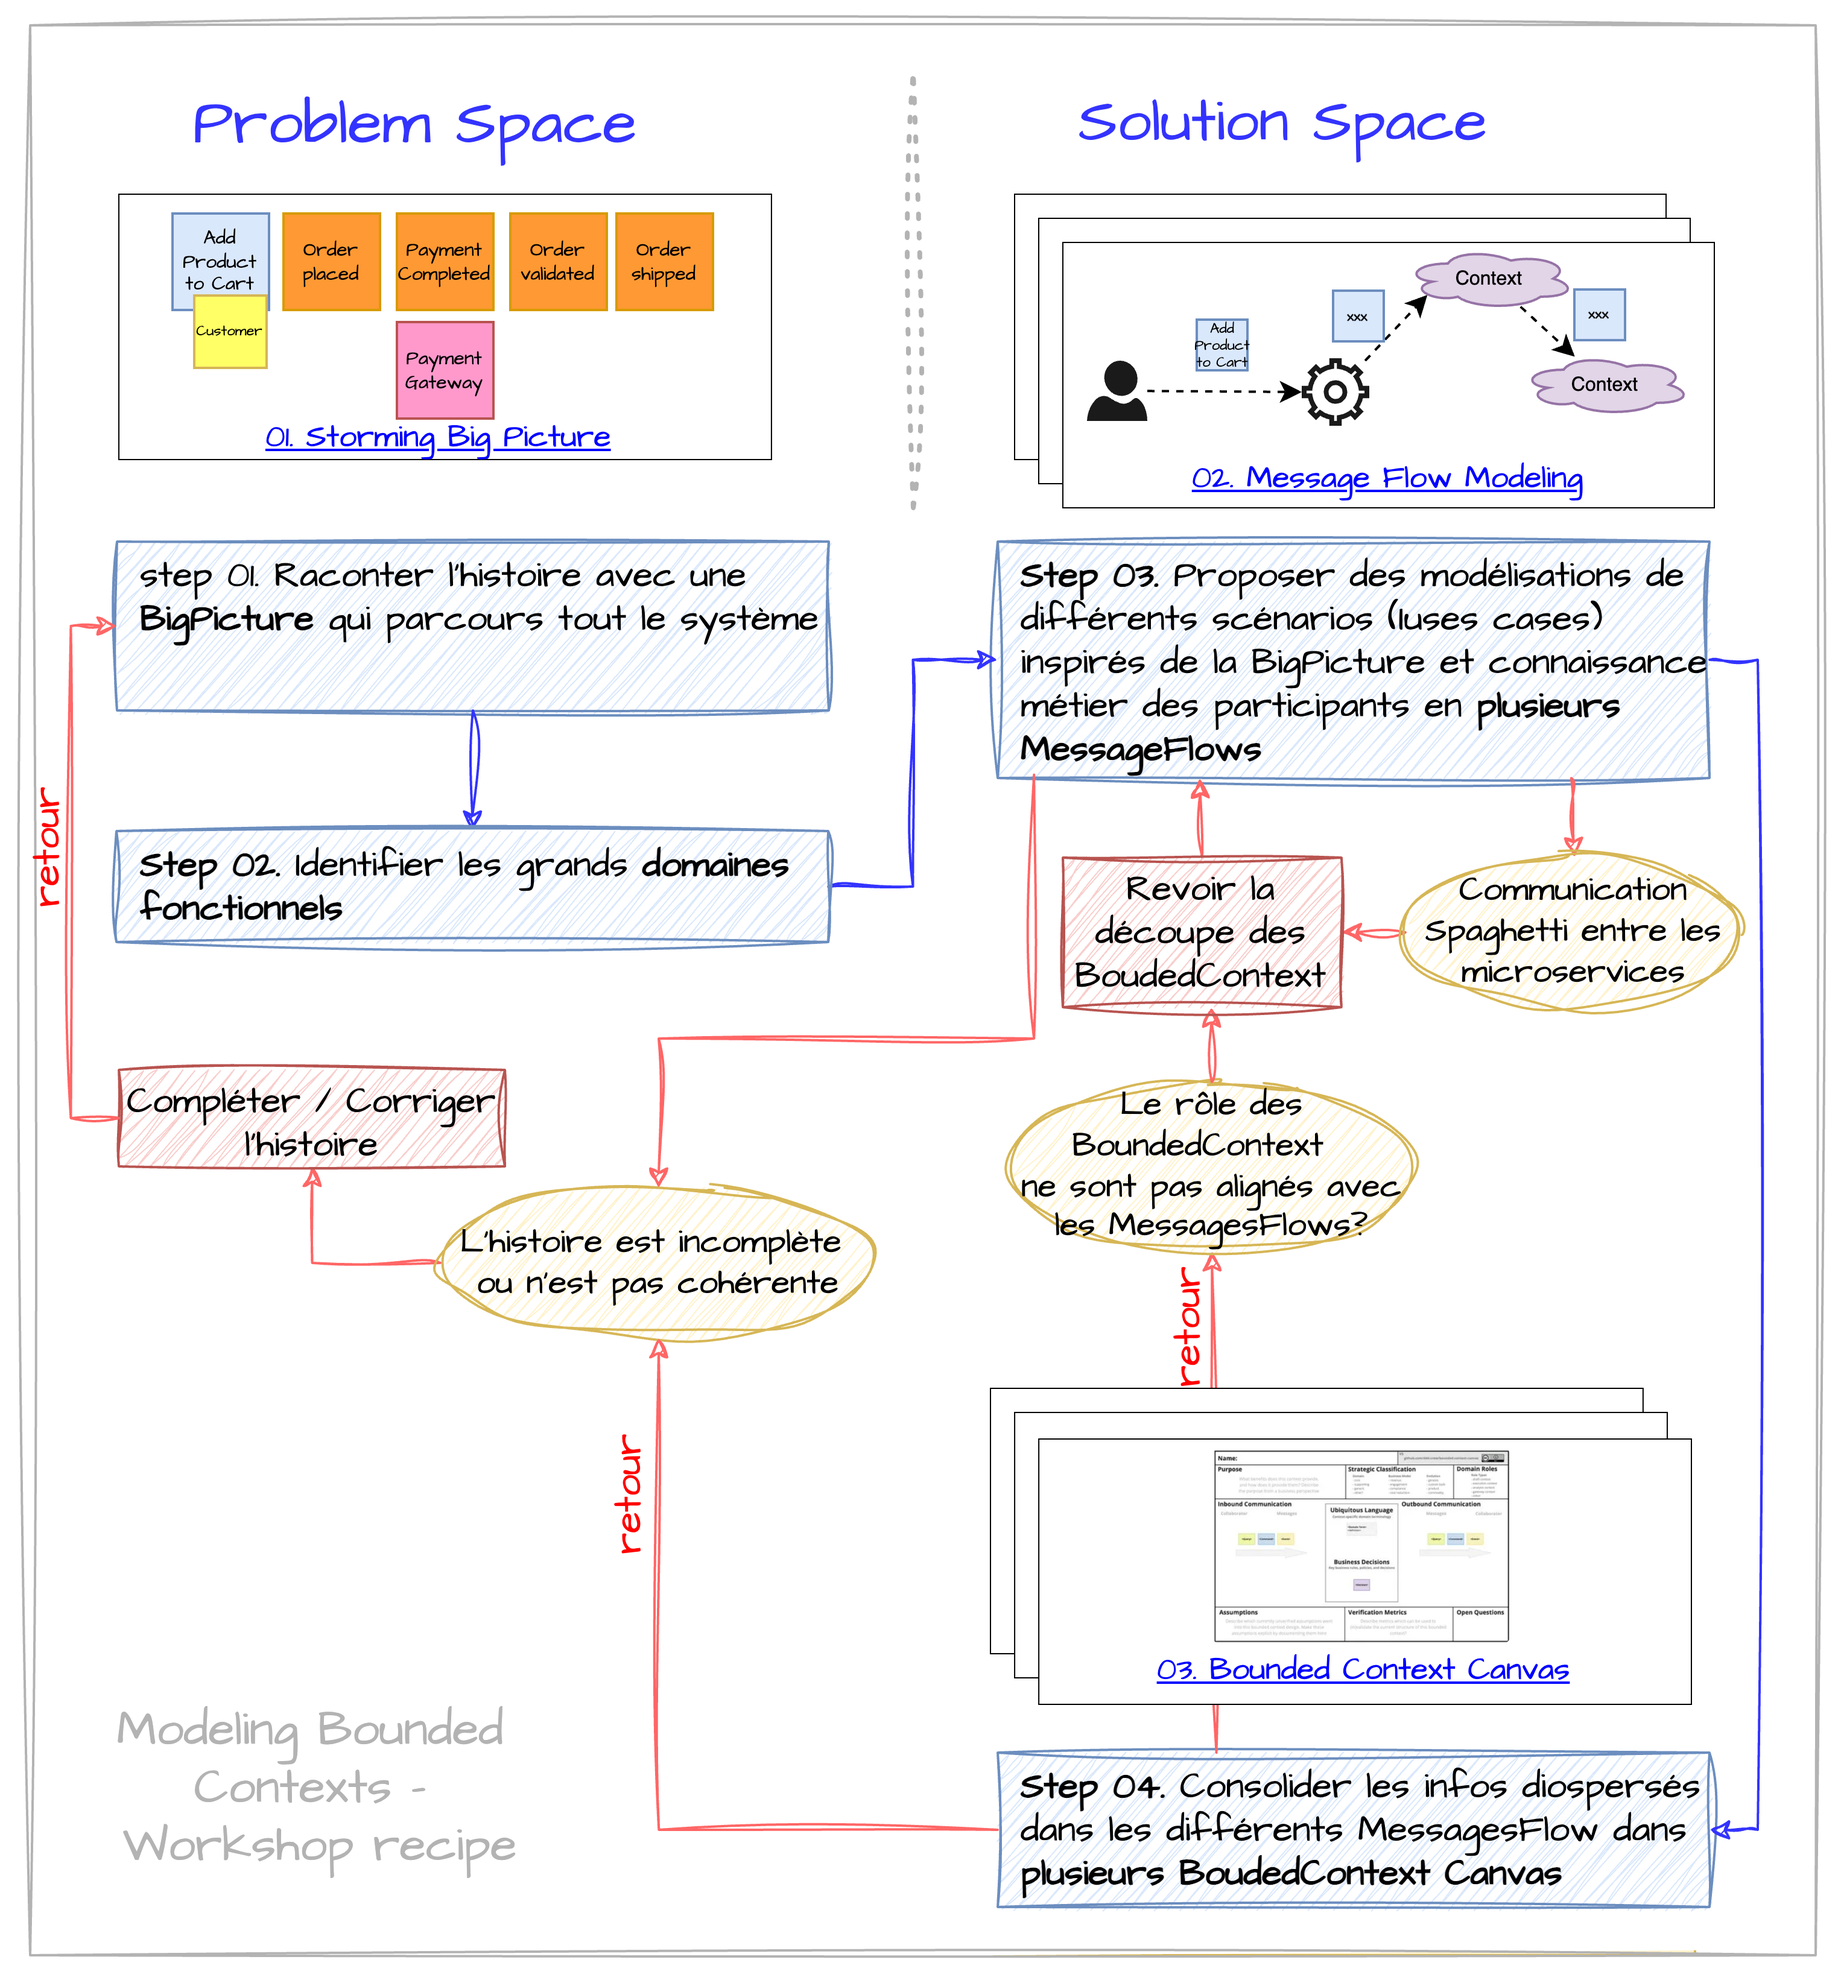
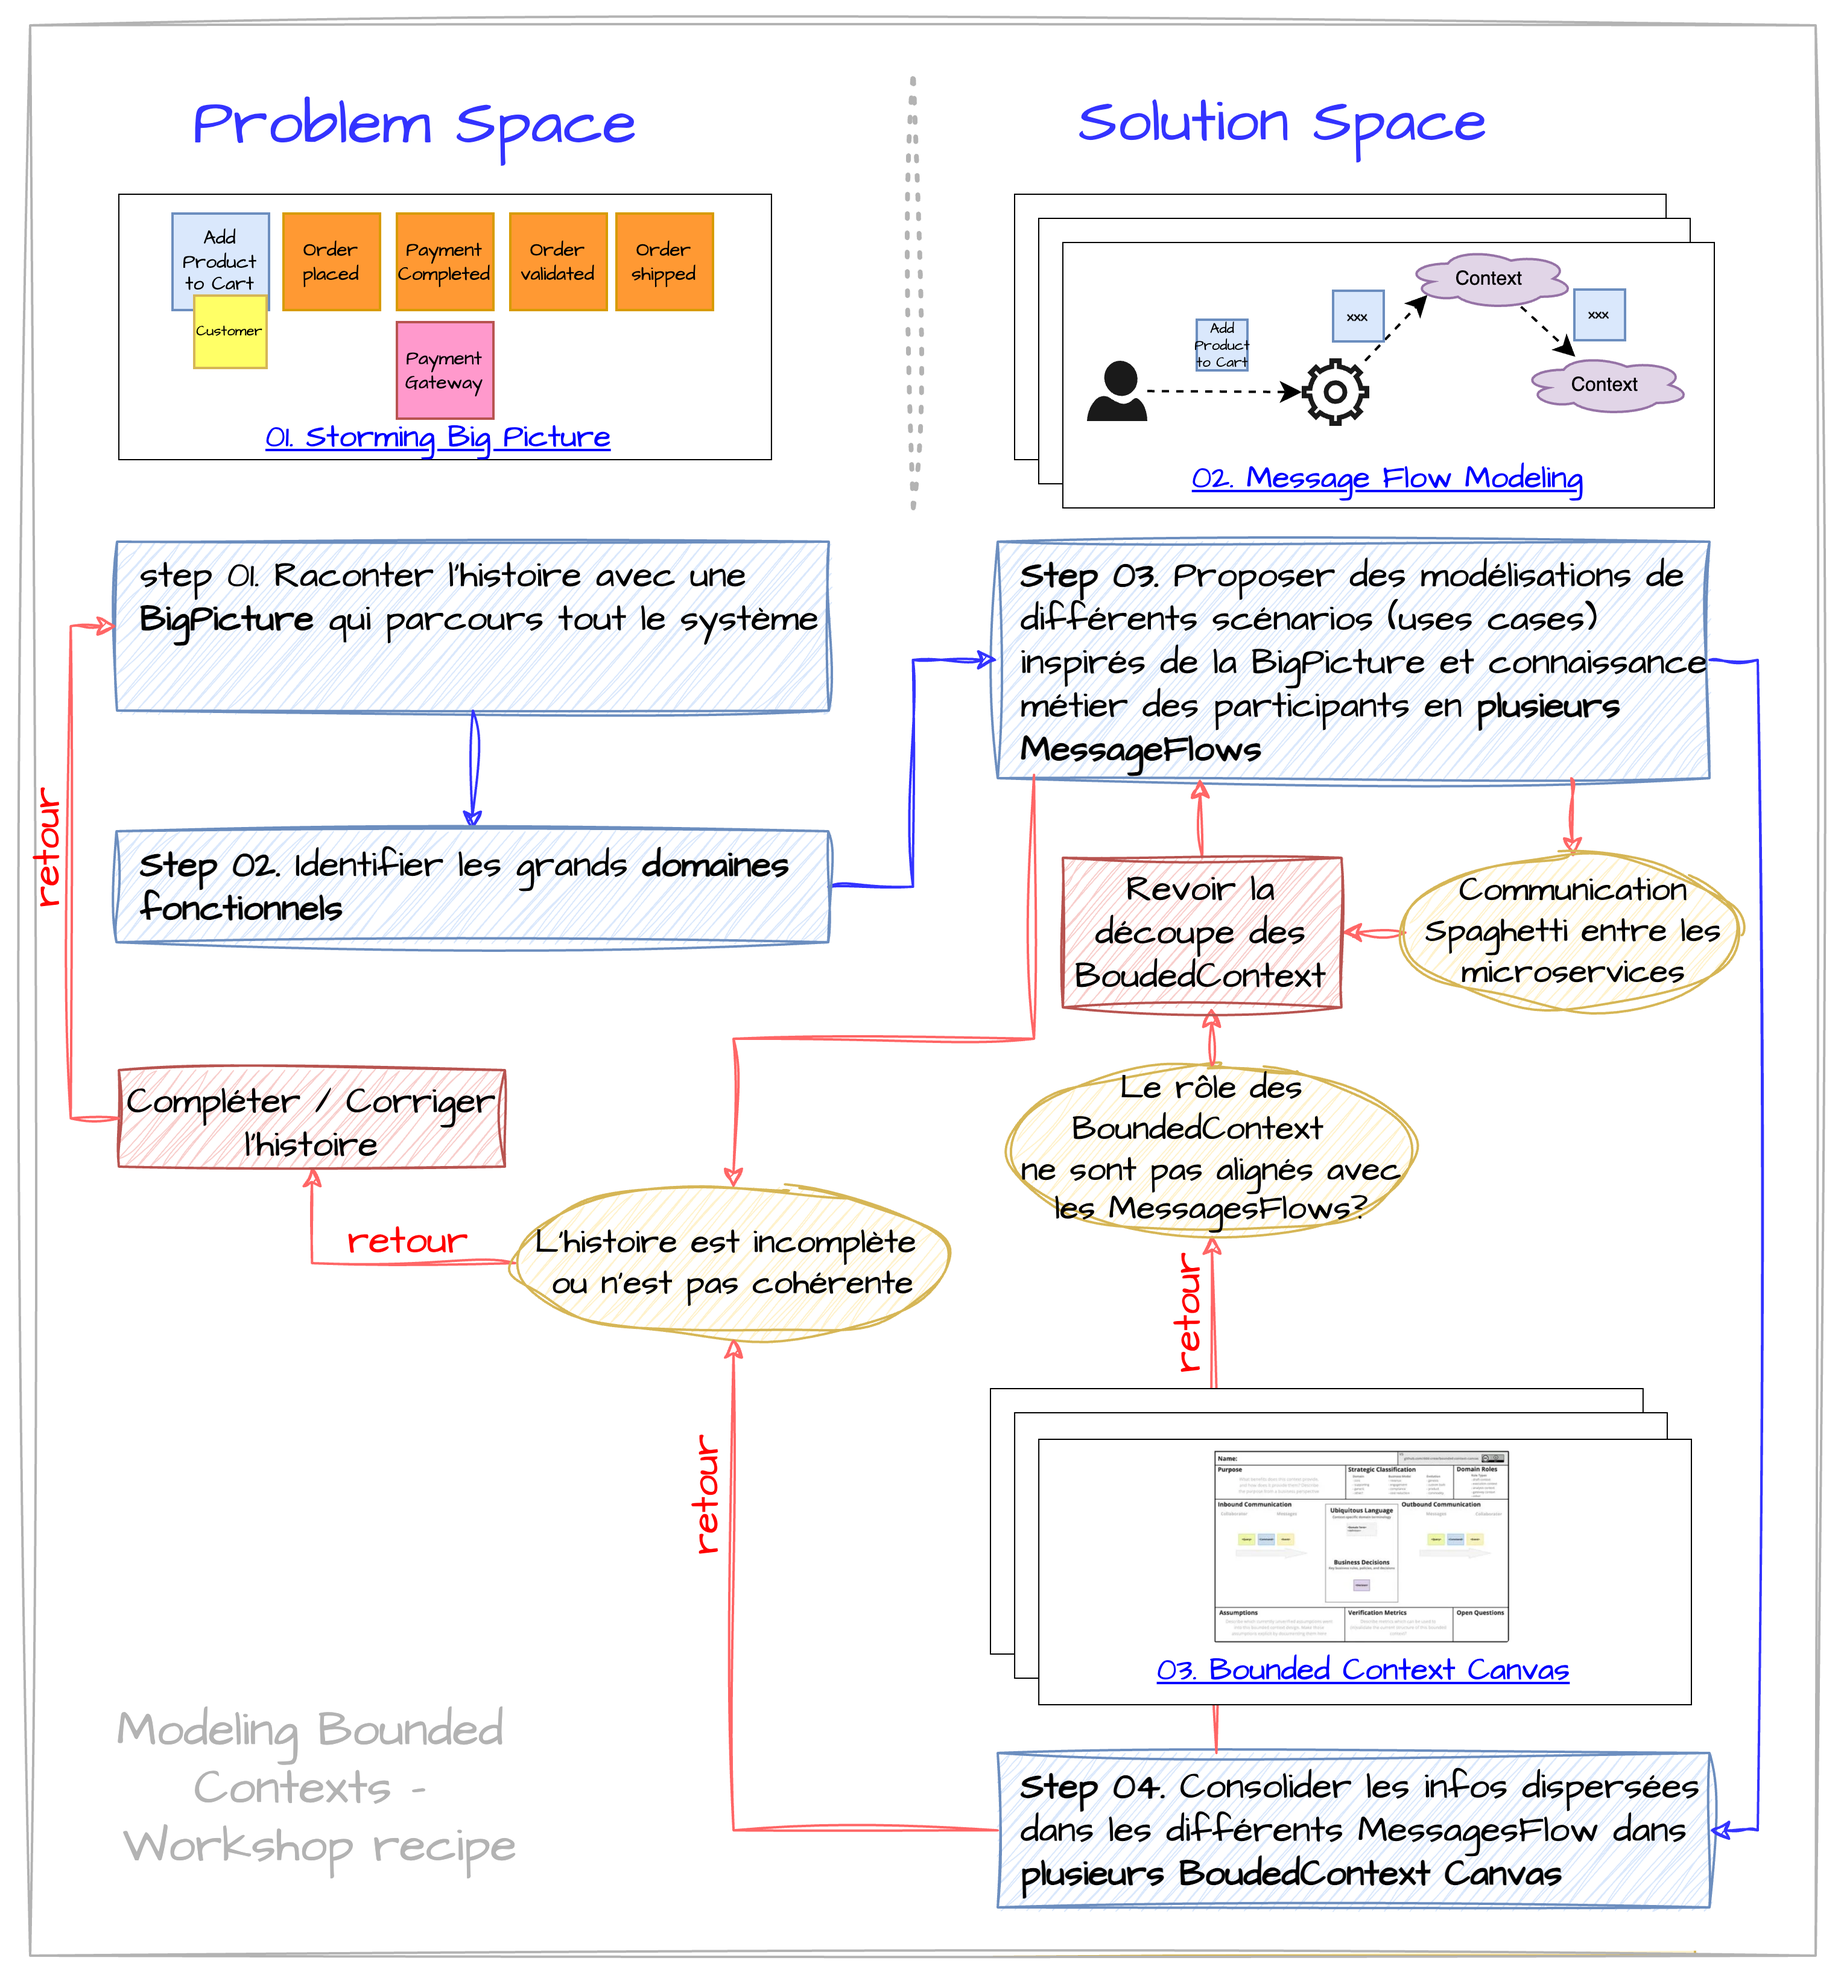
simplification

diff --git a/content/en/knowledgebase/ddd-eventstorming/03-monolith/_index.md b/content/en/knowledgebase/ddd-eventstorming/03-monolith/_index.md
@@ -29,7 +29,8 @@ Le workshop se déroule en 4 étapes :
 
 ### 01. Big Picture EventStorming
 
-> 💡 Le but de cette étape est de comprendre le processus métier dans sa globalité. Cette étape permet également de faire émerger les premiers *bounded contexts* ou, au minimum, les grands domaines fonctionnels.
+
+> **💡 L'étape** - Le but de cette étape est créer une EventStorming Big Picture opur comprendre le processus métier dans sa globalité.
 
 **Participants** : Il est essentiel d’avoir des représentants du métier ou des experts métier, ainsi que des développeurs et des personnes capables de concevoir des systèmes informatiques (architectes, tech leads, etc.).
 
@@ -38,6 +39,8 @@ On ne peut pas modéliser la solution qui répond à un métier qu'on ne compren
 Plus de détails [sur la technique de modélisation pour réaliser un EventStorming de type Big Picture](../02-techniques-eventstorming/#big-picture). Si nécessaire, on peut approfondir certains processus en réalisant un EventStorming de type *Process Modelling* (qui est le [second type d'EventStorming](../02-techniques-eventstorming/#process-modeling)).
 
 ### 02. Identifier les Bounded Contexts
+
+> **💡 L'étape** -  Le but de cette étape est d'analyser *rapidement* la *Big Picture* pour faire émerger les grands **domaines fonctionnels**
 
 #### Bounded Context ou microservices ?
 
@@ -48,7 +51,7 @@ Certains appellent cela des microservices, d’autres parlent de *bounded contex
 
 #### Emergent Bounded Context - La théorie
 
-> À ce stade, il est déjà possible *en théorie* de **faire émerger des bounded contexts** potentiels, en observant dans la Big Picture les zones de rupture, les vocabulaires distincts ou les responsabilités bien délimitées.
+À ce stade, il est déjà possible *en théorie* de **faire émerger des bounded contexts** potentiels, en observant dans la Big Picture les zones de rupture, les vocabulaires distincts ou les responsabilités bien délimitées. Ce sont les *grosses patates* dur ce schéma.
 
 ![alt text](./image-1.1.png)
 
@@ -56,37 +59,35 @@ Source : https://github.com/ddd-crew/eventstorming-glossary-cheat-sheet
 
 #### Les Bounded Contexts - La pratique
 
-> En théorie, on pourrait regarder un tableau d'EventStorming et penser qu'on peut diviser les événements en sections distinctes, chacune correspondant à un bounded context. Mais en réalité, cela n'est que rarement aussi simple.
+En **théorie**, on pourrait regarder un tableau d'EventStorming et penser qu'on peut diviser les événements en sections distinctes, chacune correspondant à un bounded context. Mais en **réalité**, cela n'est que rarement aussi simple.
 
-Souvent, des événements liés à un même bounded context apparaissent à plusieurs endroits sur le tableau. Un même bounded context peut se manifester au début d'un processus, puis réapparaître à la fin. C’est pourquoi Alberto Brandolini, le créateur de l’EventStorming, les qualifie de *bounded contexts émergents*. Ils émergent du processus, mais ils ne sont pas stabilisés ni définitifs.
+Souvent, des événements liés à un même bounded context apparaissent à plusieurs endroits sur le tableau. Un même bounded context peut se manifester au début d'un processus, puis réapparaître à la fin. C’est pourquoi Alberto Brandolini, le créateur de l’EventStorming, les qualifie de *bounded contexts* **émergents**. Ils émergent du processus, mais ils ne sont pas stabilisés ni définitifs.
 
 Dans [un workshop de modélisation](https://www.youtube.com/watch?v=oj4zGj6sPDc), Nick Tune décrit le cycle de vie d'un **bank account** : un utilisateur crée un compte, il peut déposer ou retirer de l'argent, et même fermer son compte. Ces activités ne se déroulent pas toujours dans un ordre bien défini, et elles sont souvent entrecoupées d'autres processus, comme la demande d'un prêt ou l'ouverture d'un compte épargne.
 
 ![alt text](./image-1.2.png)
 
-> Bien que ce soient des phases distinctes, **elles reposent toutes sur le même objet de domaine**, **compte**. Cela soulève des défis de modélisation, notamment entre cohésion et duplication.
+#### Bounded Contexts vs. Domaines Fonctionnels
 
-#### Les Bounded Contexts - Les domaines fonctionnels
+À défaut d'avoir les *bounded contexts* dans la Big Picture, que pouvons-nous attendre de cette première phase en termes de découpe en microservices ?
 
-À défaut d'avoir les *bounded contexts* sous forme de "patate" dans la Big Picture, que pouvons-nous attendre de cette première phase en termes de découpe en microservices ?
+Il est souvent plus réaliste de commencer par identifier des **domaines fonctionnels** plutôt que de chercher directement des bounded contexts complets et bien délimités.
 
-> Lors d’un EventStorming Big Picture, il est souvent plus réaliste de commencer par identifier des **domaines fonctionnels** plutôt que de chercher directement des bounded contexts complets et bien délimités.
+Ces domaines fonctionnels représentent des zones d’activité métier cohérentes, comme la gestion des commandes, la relation client, la facturation ou la logistique. 
 
-Ces domaines fonctionnels représentent des zones d’activité métier cohérentes, comme la gestion des commandes, la relation client, la facturation ou la logistique. Ils ne sont pas encore des bounded contexts au sens DDD - il manque encore un modèle de domaine, une équipe dédiée, des frontières techniques - mais ils jouent un rôle fondamental : ils servent de boussoles pour organiser la suite de l’exploration.
-
-Repérer ces grands ensembles permet de structurer la complexité du système en blocs compréhensibles par tous. C’est souvent à ce niveau qu’on commence à révéler les dépendances, les frictions ou les doublons, et donc à préparer le terrain pour une future découpe en microservices ou en contextes bien définis.
+Ils ne sont pas encore des bounded contexts au sens DDD - il manque encore un modèle de domaine, des frontières techniques - mais ils servent de boussoles pour organiser la suite de l’exploration. Repérer ces grands ensembles permet de structurer la complexité du système en blocs compréhensibles par tous. C’est souvent à ce niveau qu’on commence à révéler les dépendances, les frictions ou les doublons, et donc à préparer le terrain pour une future découpe en microservices ou en contextes bien définis.
 
 ![alt text](./image-1.3.png)
 
 ### 03. Message Flow Modelling
 
-> 💡 Le but de cette étape est d'identifier les premiers *bounded contexts* ou microservices, en s'inspirant de la *Big Picture*, ainsi que de la connaissance métier et technique des participants.
+> **💡 L'étape** -  L'objectif de cette étape est de proposer des candidats pour les *bounded contexts*, d'analyser leur utilisation ainsi que les modes de communication entre eux, afin de valider la légitimité de ces candidats.
 
 #### EventStorming vs Message Flow Modelling
 
 On pourrait dans cette étape utiliser [Software Design EventStorming](../02-techniques-eventstorming/#software-design) pour identifier les agrégats, les commandes, les politiques, les événements techniques, et pour poser les limites de contexte (*bounded contexts*) du futur système modulaire. Nick Tune propose d'utiliser un autre outil appelé [Message Flow Modelling](https://github.com/ddd-crew/domain-message-flow-modelling).
 
-> Concevoir des systèmes faiblement couplés nécessite plus que de simples frontières bien définies. Il est tout aussi important de définir précisément les interactions entre les *bounded contexts*.
+Concevoir des systèmes faiblement couplés nécessite plus que de simples frontières bien définies. Il est tout aussi important de **définir précisément les interactions** entre les *bounded contexts*.
 
 C’est pour cette raison qu’un EventStorming de type *Software Design* ne suffit pas toujours.
 
@@ -96,9 +97,9 @@ Le *Message Flow Modelling* est centré sur l’échange de messages entre les c
 
 #### Message Flow Modelling - En pratique
 
-> Dans la pratique :
-> - on sélectionne **les flux stratégiques**, qu'on considère comme des *scénarios* ou des *use cases*, en s'inspirant de la *Big Picture*, mais aussi de la connaissance métier et technique des participants ;
-> - pour **chaque scénario**, on dessine le *message flow* correspondant.
+Dans la pratique :
+- on sélectionne **les flux stratégiques**, qu'on considère comme des *scénarios* ou des *use cases*, en s'inspirant de la *Big Picture*, mais aussi de la connaissance métier et technique des participants ;
+- pour **chaque scénario**, on dessine le *message flow* correspondant.
 
 Avec Message Flow Modelling, les *bounded contexts* deviennent les acteurs principaux de l’histoire.
 - Une histoire typique commence par un utilisateur qui cherche à atteindre un objectif,
@@ -135,7 +136,8 @@ Cette modélisation, que nous utilisons ici pour découvrir les *bounded context
 
 ### 04. Bounded Context Canvas
 
-> 💡 Le but de cette étape est d'affiner les premiers *bounded contexts* ou microservices.
+> **💡 L'étape** -  L'objectif de cette étape est d'affiner les premiers *bounded contexts* ou microservices, en consolidant pour chacun d'eux les informations dispersées dans les différents *MessagesFlow*.
+
 
 L'étape suivante du processus de conception consiste à modéliser chaque *bounded context* candidat en détaillant des critères de design clés. Pour cela, le [Bounded Context Canvas](https://github.com/ddd-crew/bounded-context-canvas) fournit un support structurant, particulièrement utile pour faire émerger une compréhension partagée du rôle, des capacités et des contraintes d’un contexte donné.
 
@@ -156,14 +158,9 @@ Appuyez-vous sur les résultats d’un *EventStorming* pour identifier les règl
 
 Identifiez également les termes métier clés - mots ou expressions spécifiques - et placez-les dans la section *Ubiquitous Language*. Cette partie est évolutive : elle s’enrichira tout au long du processus de modélisation.
 
-#### Capacités du Contexte
+#### Capabilities
 
-Listez les principales capacités du contexte : que peut-il faire ? Que propose-t-il aux autres contextes ? Incluez aussi les tâches internes s’il y en a.
-
-Cela vous aidera à :
-* clarifier les responsabilités ;
-* identifier les éventuels regroupements logiques ;
-* repérer les surcharges ou incohérences à corriger.
+Listez les principales *capabilities* du contexte : que peut-il faire ? Que propose-t-il aux autres contextes ? Incluez aussi les tâches internes s’il y en a. Cela vous aidera à clarifier les responsabilités, à identifier les éventuels regroupements logiques et repérer les incohérences à corriger.
 
 ## Workshop et itérations
 
